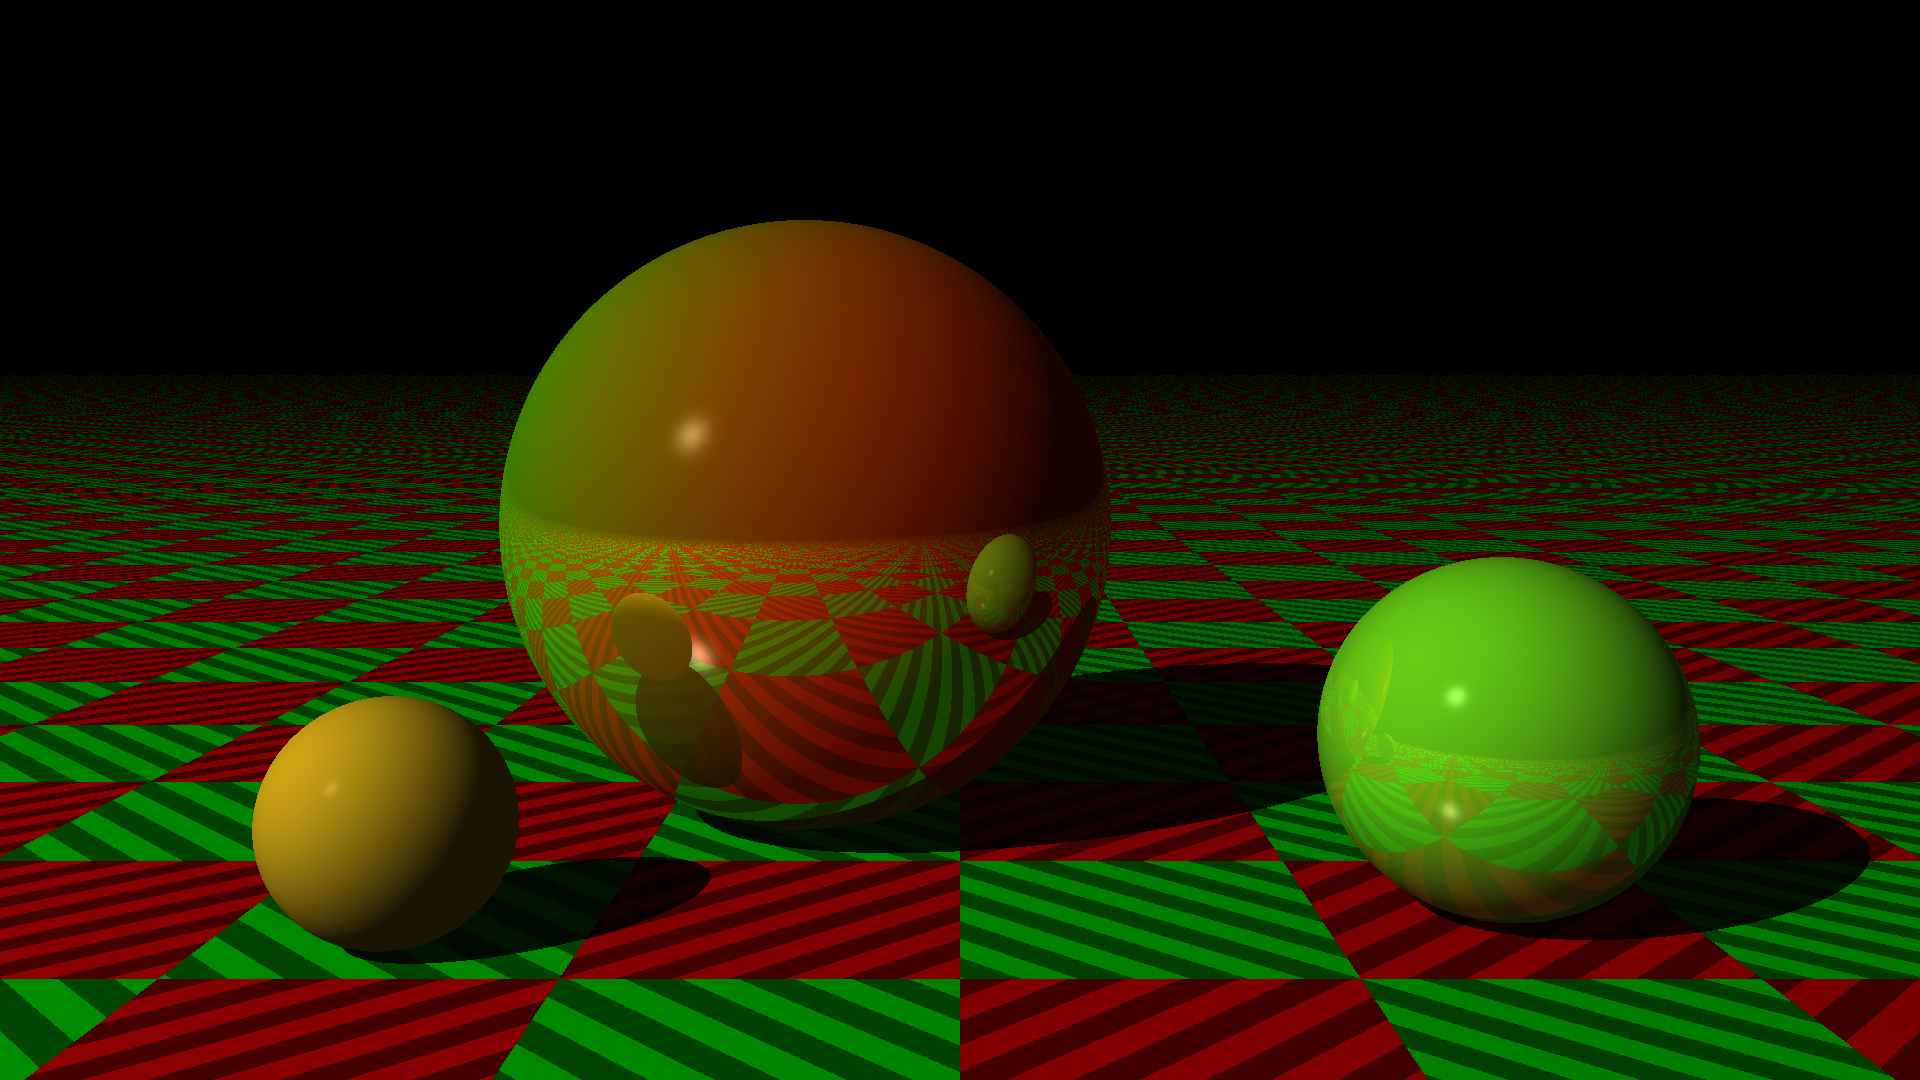
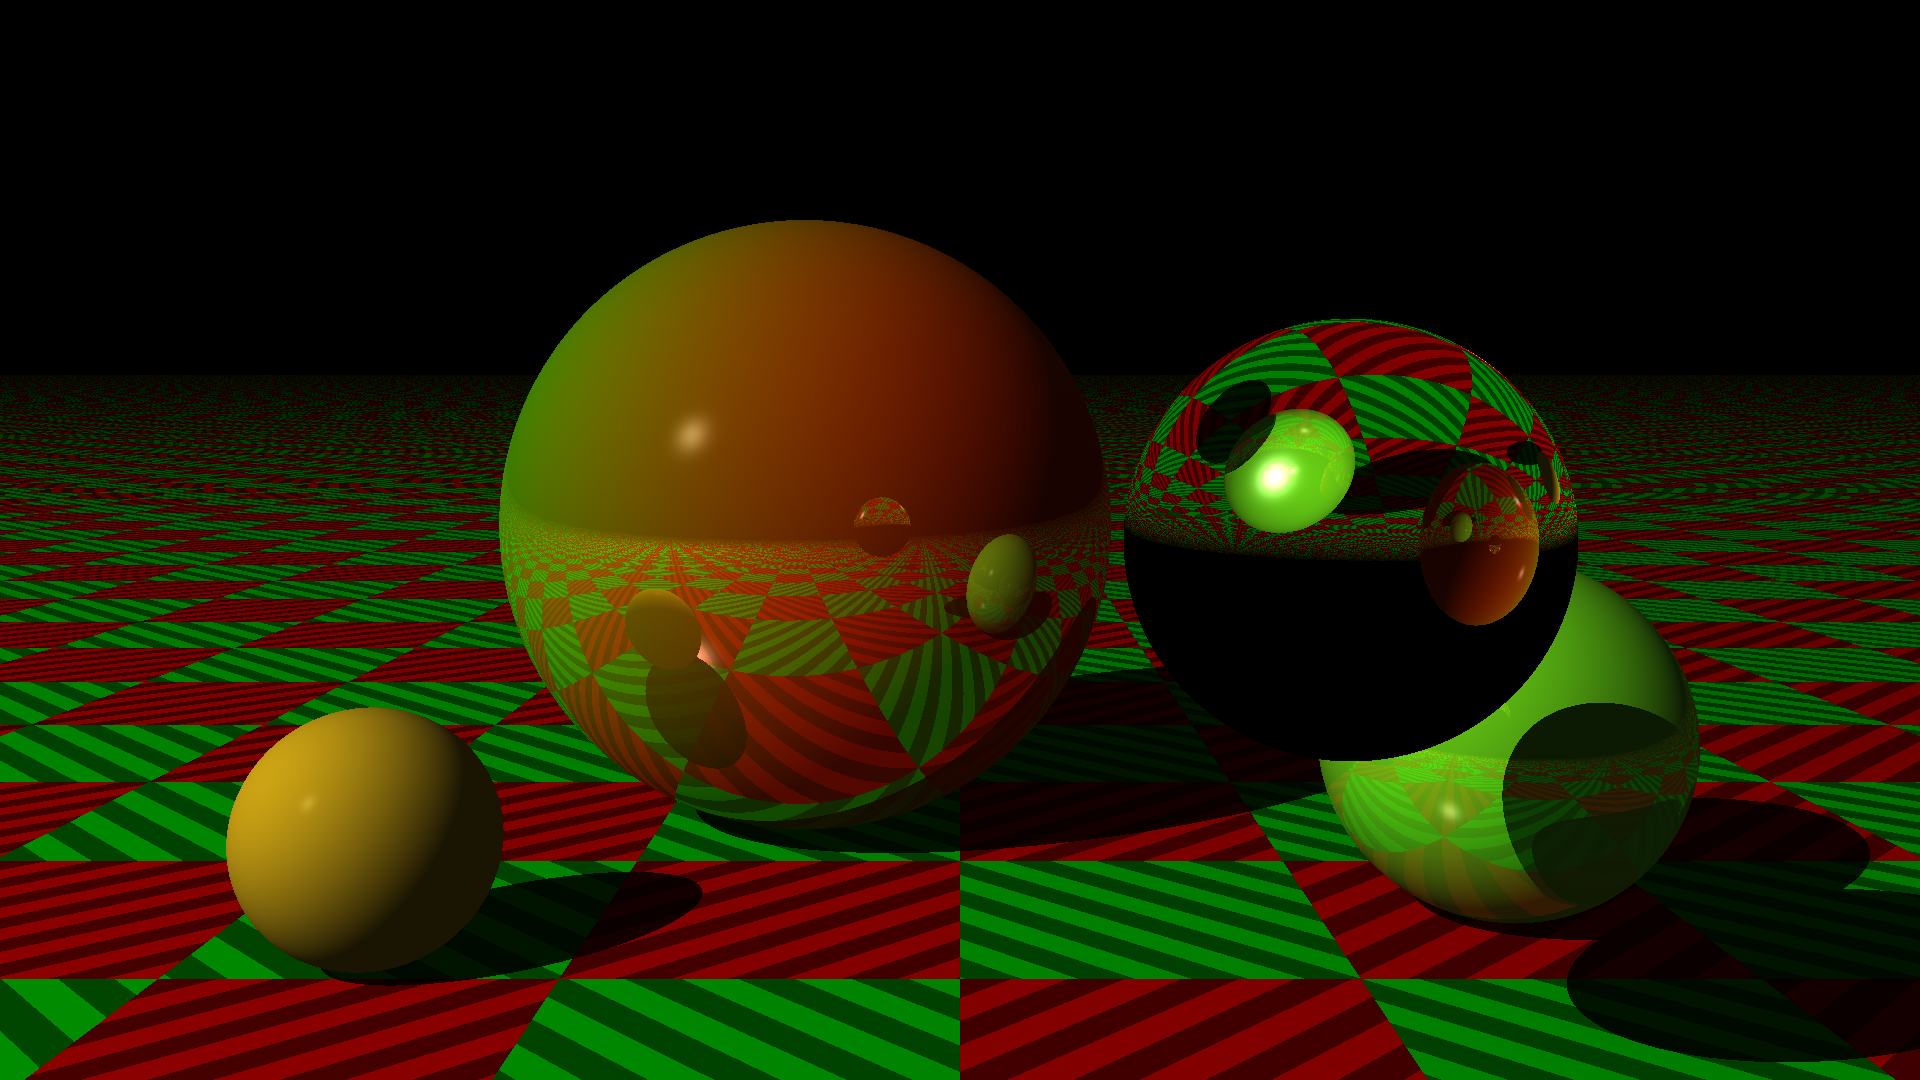
Started working on refraction

diff --git a/intersection/world_test.go b/intersection/world_test.go
@@ -121,7 +121,7 @@ func TestWorldShade(t *testing.T) {
 	r := ray.New(tuple.Point(0, 0, -5), tuple.Vector(0, 0, 1))
 	shape := w.Objects[0]
 	i := intersection.NewIntersection(4, shape)
-	comps := i.PrepareComputations(r)
+	comps := i.PrepareComputations(r, nil)
 
 	c := w.ShadeHit(comps, DEFAULT_RECURSION_MAX)
 	if !c.Equal(color.New(0.38066, 0.47583, 0.2855)) {
@@ -135,7 +135,7 @@ func TestWorldShadeInside(t *testing.T) {
 	r := ray.New(tuple.Point(0, 0, 0), tuple.Vector(0, 0, 1))
 	shape := w.Objects[1]
 	i := intersection.NewIntersection(0.5, shape)
-	comps := i.PrepareComputations(r)
+	comps := i.PrepareComputations(r, nil)
 
 	c := w.ShadeHit(comps, DEFAULT_RECURSION_MAX)
 	if !c.Equal(color.New(0.90498, 0.90498, 0.90498)) {
@@ -229,7 +229,7 @@ func TestShadeHitShadow(t *testing.T) {
 	r := ray.New(tuple.Point(0, 0, 5), tuple.Vector(0, 0, 1))
 	i := intersection.NewIntersection(4, s2)
 
-	comps := i.PrepareComputations(r)
+	comps := i.PrepareComputations(r, nil)
 	c := w.ShadeHit(comps, DEFAULT_RECURSION_MAX)
 	if !c.Equal(color.New(0.1, 0.1, 0.1)) {
 		t.Errorf("wrong color")
@@ -242,7 +242,7 @@ func TestWorldReflectedColorOfNonreflective(t *testing.T) {
 	w.Objects[1].GetMaterial().Ambient = 1
 	i := intersection.NewIntersection(1, w.Objects[1])
 
-	comps := i.PrepareComputations(r)
+	comps := i.PrepareComputations(r, nil)
 	c := w.ReflectedColor(comps, DEFAULT_RECURSION_MAX)
 
 	if !c.Equal(color.New(0.0, 0.0, 0.0)) {
@@ -259,7 +259,7 @@ func TestWorldReflectedColor(t *testing.T) {
 	r := ray.New(tuple.Point(0, 0, -3), tuple.Vector(0, -math.Sqrt(2)/2.0, math.Sqrt(2)/2.0))
 	i := intersection.NewIntersection(math.Sqrt(2), shape)
 
-	comps := i.PrepareComputations(r)
+	comps := i.PrepareComputations(r, nil)
 	c := w.ReflectedColor(comps, DEFAULT_RECURSION_MAX)
 
 	if !c.Equal(color.New(0.190332, 0.23791, 0.142749)) {
@@ -276,7 +276,7 @@ func TestWorldReflectedShadeHit(t *testing.T) {
 	r := ray.New(tuple.Point(0, 0, -3), tuple.Vector(0, -math.Sqrt(2)/2.0, math.Sqrt(2)/2.0))
 	i := intersection.NewIntersection(math.Sqrt(2), shape)
 
-	comps := i.PrepareComputations(r)
+	comps := i.PrepareComputations(r, nil)
 	c := w.ShadeHit(comps, DEFAULT_RECURSION_MAX)
 
 	if !c.Equal(color.New(0.876757, 0.92434, 0.829174)) {
@@ -316,10 +316,88 @@ func TestWorldReflectedMaxDepth(t *testing.T) {
 	r := ray.New(tuple.Point(0, 0, -3), tuple.Vector(0, -math.Sqrt(2)/2.0, math.Sqrt(2)/2.0))
 	i := intersection.NewIntersection(math.Sqrt(2), shape)
 
-	comps := i.PrepareComputations(r)
+	comps := i.PrepareComputations(r, nil)
 	c := w.ReflectedColor(comps, 0)
 
 	if !c.Equal(color.New(0.0, 0.0, 0.0)) {
+		t.Errorf("wrong color %+v", c)
+	}
+}
+
+func TestWorldRefractedColorOfNonrefracted(t *testing.T) {
+	w := intersection.NewDefaultWorld()
+	shape := w.Objects[0]
+	r := ray.New(tuple.Point(0, 0, -5), tuple.Vector(0, 0, 1))
+	i1 := intersection.NewIntersection(4, shape)
+	i2 := intersection.NewIntersection(6, shape)
+	xs := intersection.Intersections{i1, i2}
+
+	comps := xs[0].PrepareComputations(r, xs)
+	c := w.RefractedColor(comps, DEFAULT_RECURSION_MAX)
+
+	if !c.Equal(color.New(0.0, 0.0, 0.0)) {
+		t.Errorf("wrong color %+v", c)
+	}
+}
+
+func TestWorldRefractedMaxDepth(t *testing.T) {
+	w := intersection.NewDefaultWorld()
+	shape := w.Objects[0]
+	shape.GetMaterial().Transparency = 1.0
+	shape.GetMaterial().RefractiveIndex = 1.5
+
+	r := ray.New(tuple.Point(0, 0, -5), tuple.Vector(0, 0, 1))
+	i1 := intersection.NewIntersection(4, shape)
+	i2 := intersection.NewIntersection(6, shape)
+	xs := intersection.Intersections{i1, i2}
+
+	comps := xs[0].PrepareComputations(r, xs)
+	c := w.RefractedColor(comps, 0)
+
+	if !c.Equal(color.New(0.0, 0.0, 0.0)) {
+		t.Errorf("wrong color %+v", c)
+	}
+}
+
+func TestWorldRefractedTotalInternalReflection(t *testing.T) {
+	w := intersection.NewDefaultWorld()
+	shape := w.Objects[0]
+	shape.GetMaterial().Transparency = 1.0
+	shape.GetMaterial().RefractiveIndex = 1.5
+
+	r := ray.New(tuple.Point(0, 0, math.Sqrt(2.0)/2.0), tuple.Vector(0, 1, 0))
+	i1 := intersection.NewIntersection(-math.Sqrt(2.0)/2.0, shape)
+	i2 := intersection.NewIntersection(math.Sqrt(2.0)/2.0, shape)
+	xs := intersection.Intersections{i1, i2}
+
+	comps := xs[1].PrepareComputations(r, xs)
+	c := w.RefractedColor(comps, DEFAULT_RECURSION_MAX)
+
+	if !c.Equal(color.New(0.0, 0.0, 0.0)) {
+		t.Errorf("wrong color %+v", c)
+	}
+}
+
+func TestWorldRefractedColor(t *testing.T) {
+	w := intersection.NewDefaultWorld()
+	a := w.Objects[0]
+	a.GetMaterial().Ambient = 1.0
+
+	b := w.Objects[1]
+	b.GetMaterial().Transparency = 1.0
+	b.GetMaterial().RefractiveIndex = 1.5
+
+	r := ray.New(tuple.Point(0, 0, 0.1), tuple.Vector(0, 1, 0))
+	i1 := intersection.NewIntersection(-0.9899, a)
+	i2 := intersection.NewIntersection(-0.4899, b)
+	i3 := intersection.NewIntersection(0.4899, b)
+	i4 := intersection.NewIntersection(0.9899, a)
+	xs := intersection.Intersections{i1, i2, i3, i4}
+
+	comps := xs[2].PrepareComputations(r, xs)
+	c := w.RefractedColor(comps, DEFAULT_RECURSION_MAX)
+
+	if !c.Equal(color.New(0.0, 0.99888, 0.04725)) {
 		t.Errorf("wrong color %+v", c)
 	}
 }

diff --git a/intersection/intersection_test.go b/intersection/intersection_test.go
@@ -92,7 +92,7 @@ func TestPrecomputeIntersection(t *testing.T) {
 	shape := intersection.NewSphere()
 	i := intersection.NewIntersection(4, shape)
 
-	comps := i.PrepareComputations(r)
+	comps := i.PrepareComputations(r, nil)
 	if !flt.Equal(comps.T, i.T) {
 		t.Errorf("wrong t")
 	}
@@ -115,7 +115,7 @@ func TestPrecomputeIntersectionOutside(t *testing.T) {
 	shape := intersection.NewSphere()
 	i := intersection.NewIntersection(4, shape)
 
-	comps := i.PrepareComputations(r)
+	comps := i.PrepareComputations(r, nil)
 	if comps.Inside {
 		t.Errorf("should be outside")
 	}
@@ -126,7 +126,7 @@ func TestPrecomputeIntersectionInside(t *testing.T) {
 	shape := intersection.NewSphere()
 	i := intersection.NewIntersection(1, shape)
 
-	comps := i.PrepareComputations(r)
+	comps := i.PrepareComputations(r, nil)
 	if !flt.Equal(comps.T, i.T) {
 		t.Errorf("wrong t")
 	}
@@ -152,20 +152,31 @@ func TestPrecomputeReflectV(t *testing.T) {
 	shape := intersection.NewPlane()
 	i := intersection.NewIntersection(math.Sqrt(2), shape)
 
-	comps := i.PrepareComputations(r)
+	comps := i.PrepareComputations(r, nil)
 	if !tuple.Vector(0, math.Sqrt(2)/2.0, math.Sqrt(2)/2.0).Equal(comps.ReflectV) {
 		t.Errorf("wrong reflectV")
 	}
 }
 
-func TestHitOffsetPoint(t *testing.T) {
+func TestHitOverPoint(t *testing.T) {
 	r := ray.New(tuple.Point(0, 0, -5), tuple.Vector(0, 0, 1))
 	shape := intersection.NewSphere()
 	shape.Transform = matrix.Translation(0, 0, 1)
 	i := intersection.NewIntersection(5, shape)
-	comps := i.PrepareComputations(r)
+	comps := i.PrepareComputations(r, nil)
 	if comps.OverPoint.Z() >= flt.Epsilon/2.0 || comps.Point.Z() <= comps.OverPoint.Z() {
 		t.Errorf("over point wrong")
+	}
+}
+
+func TestHitUnderPoint(t *testing.T) {
+	r := ray.New(tuple.Point(0, 0, -5), tuple.Vector(0, 0, 1))
+	shape := NewGlassSphere()
+	shape.Transform = matrix.Translation(0, 0, 1)
+	i := intersection.NewIntersection(5, shape)
+	comps := i.PrepareComputations(r, nil)
+	if comps.UnderPoint.Z() <= flt.Epsilon/2.0 || comps.Point.Z() >= comps.UnderPoint.Z() {
+		t.Errorf("under point wrong")
 	}
 }
 
@@ -207,7 +218,7 @@ func TestFindN1AndN2(t *testing.T) {
 
 	for _, c := range cs {
 
-		comps := xs[c.index].PrepareComputations(r)
+		comps := xs[c.index].PrepareComputations(r, xs)
 		if !flt.Equal(comps.N1, c.n1) || !flt.Equal(comps.N2, c.n2) {
 			t.Errorf("wrong n1 or n2 at index %d", c.index)
 		}

diff --git a/intersection/intersection.go b/intersection/intersection.go
@@ -1,6 +1,7 @@
 package intersection
 
 import (
+	"slices"
 	"sort"
 
 	"github.com/NHollmann/Raytracer-Challenge-Go/flt"
@@ -16,16 +17,17 @@ type Intersection struct {
 type Intersections []Intersection
 
 type PreparedComps struct {
-	T         float64
-	Object    Shape
-	Point     tuple.Tuple
-	OverPoint tuple.Tuple
-	EyeV      tuple.Tuple
-	NormalV   tuple.Tuple
-	ReflectV  tuple.Tuple
-	Inside    bool
-	N1        float64 // Refractive index of exiting material
-	N2        float64 // Refractive index of entering material
+	T          float64
+	Object     Shape
+	Point      tuple.Tuple
+	OverPoint  tuple.Tuple
+	UnderPoint tuple.Tuple
+	EyeV       tuple.Tuple
+	NormalV    tuple.Tuple
+	ReflectV   tuple.Tuple
+	Inside     bool
+	N1         float64 // Refractive index of exiting material
+	N2         float64 // Refractive index of entering material
 }
 
 func NewIntersection(T float64, Object Shape) Intersection {
@@ -54,7 +56,11 @@ func (xs Intersections) Hit() *Intersection {
 	return nil
 }
 
-func (x Intersection) PrepareComputations(r ray.Ray) PreparedComps {
+func (x Intersection) PrepareComputations(r ray.Ray, xs Intersections) PreparedComps {
+	if xs == nil {
+		xs = Intersections{x}
+	}
+
 	point := r.Position(x.T)
 	result := PreparedComps{
 		T:      x.T,
@@ -72,7 +78,44 @@ func (x Intersection) PrepareComputations(r ray.Ray) PreparedComps {
 	}
 
 	result.OverPoint = result.Point.Add(result.NormalV.Mul(flt.Epsilon))
+	result.UnderPoint = result.Point.Sub(result.NormalV.Mul(flt.Epsilon))
 	result.ReflectV = r.Direction.Reflect(result.NormalV)
 
+	// Find refractive indizies of entering and exiting material
+	containers := make([]Shape, 0, len(xs))
+	for _, i := range xs {
+		if i == x {
+			obj, found := last(containers)
+			if found {
+				result.N1 = obj.GetMaterial().RefractiveIndex
+			} else {
+				result.N1 = 1.0
+			}
+		}
+		idx := slices.Index(containers, i.Object)
+		if idx >= 0 {
+			containers = slices.Delete(containers, idx, idx+1)
+		} else {
+			containers = append(containers, i.Object)
+		}
+		if i == x {
+			obj, found := last(containers)
+			if found {
+				result.N2 = obj.GetMaterial().RefractiveIndex
+			} else {
+				result.N2 = 1.0
+			}
+			break
+		}
+	}
+
 	return result
+}
+
+func last[E any](s []E) (E, bool) {
+	if len(s) == 0 {
+		var zero E
+		return zero, false
+	}
+	return s[len(s)-1], true
 }

diff --git a/intersection/world.go b/intersection/world.go
@@ -1,6 +1,8 @@
 package intersection
 
 import (
+	"math"
+
 	"github.com/NHollmann/Raytracer-Challenge-Go/color"
 	"github.com/NHollmann/Raytracer-Challenge-Go/flt"
 	"github.com/NHollmann/Raytracer-Challenge-Go/light"
@@ -76,8 +78,9 @@ func (w *World) ShadeHit(comps PreparedComps, remaining int) color.Color {
 	}
 
 	reflected := w.ReflectedColor(comps, remaining)
+	refracted := w.RefractedColor(comps, remaining)
 
-	return result.Add(reflected)
+	return result.Add(reflected).Add(refracted)
 }
 
 func (w *World) ColorAt(r ray.Ray, remaining int) color.Color {
@@ -87,7 +90,7 @@ func (w *World) ColorAt(r ray.Ray, remaining int) color.Color {
 		return color.New(0, 0, 0)
 	}
 
-	comps := hit.PrepareComputations(r)
+	comps := hit.PrepareComputations(r, xs)
 	return w.ShadeHit(comps, remaining)
 }
 
@@ -101,6 +104,30 @@ func (w *World) ReflectedColor(comps PreparedComps, remaining int) color.Color {
 	reflectedRay := ray.New(comps.OverPoint, comps.ReflectV)
 	c := w.ColorAt(reflectedRay, remaining-1)
 	return c.MulScalar(comps.Object.GetMaterial().Reflective)
+}
+
+func (w *World) RefractedColor(comps PreparedComps, remaining int) color.Color {
+	if remaining < 1 {
+		return color.New(0.0, 0.0, 0.0)
+	}
+	if flt.Equal(comps.Object.GetMaterial().Transparency, 0.0) {
+		return color.New(0.0, 0.0, 0.0)
+	}
+
+	nRatio := comps.N1 / comps.N2
+	cosI := comps.EyeV.Dot(comps.NormalV)
+	sin2t := nRatio * nRatio * (1 - cosI*cosI)
+	if sin2t > 1.0 {
+		return color.New(0.0, 0.0, 0.0)
+	}
+
+	cosT := math.Sqrt(1.0 - sin2t)
+	direction := comps.NormalV.Mul(nRatio*cosI - cosT).Sub(comps.EyeV.Mul(nRatio))
+	refractedRay := ray.New(comps.UnderPoint, direction)
+	result := w.ColorAt(refractedRay, remaining-1)
+	result = result.MulScalar(comps.Object.GetMaterial().Transparency)
+
+	return result
 }
 
 func (w *World) IsShadowed(point tuple.Tuple, l light.PointLight) bool {

diff --git a/cmd/main.go b/cmd/main.go
@@ -83,11 +83,21 @@ func renderImage() {
 	world.AddObject(right)
 
 	left := intersection.NewSphere()
-	left.Transform = matrix.Translation(-1.5, 0.33, -0.75).Mul(matrix.Scaling(0.33, 0.33, 0.33))
+	left.Transform = matrix.Translation(-1.5, 0.33, -0.9).Mul(matrix.Scaling(0.33, 0.33, 0.33))
 	left.Material.Color = color.New(1, 0.8, 0.1)
 	left.Material.Diffuse = 0.7
 	left.Material.Specular = 0.1
 	world.AddObject(left)
+
+	glassBall := intersection.NewSphere()
+	glassBall.Transform = matrix.Translation(0.7, 1.2, -2.0).Mul(matrix.Scaling(0.4, 0.4, 0.4))
+	glassBall.Material.Color = color.New(0, 0, 0)
+	glassBall.Material.Diffuse = 0.1
+	glassBall.Material.Specular = 1.0
+	glassBall.Material.Shininess = 100.0
+	glassBall.Material.Transparency = 1.0
+	glassBall.Material.RefractiveIndex = 2.42
+	world.AddObject(glassBall)
 
 	lightSource := light.NewPoint(tuple.Point(-10, 10, -10), color.New(1, 1, 1))
 	world.AddLight(lightSource)
